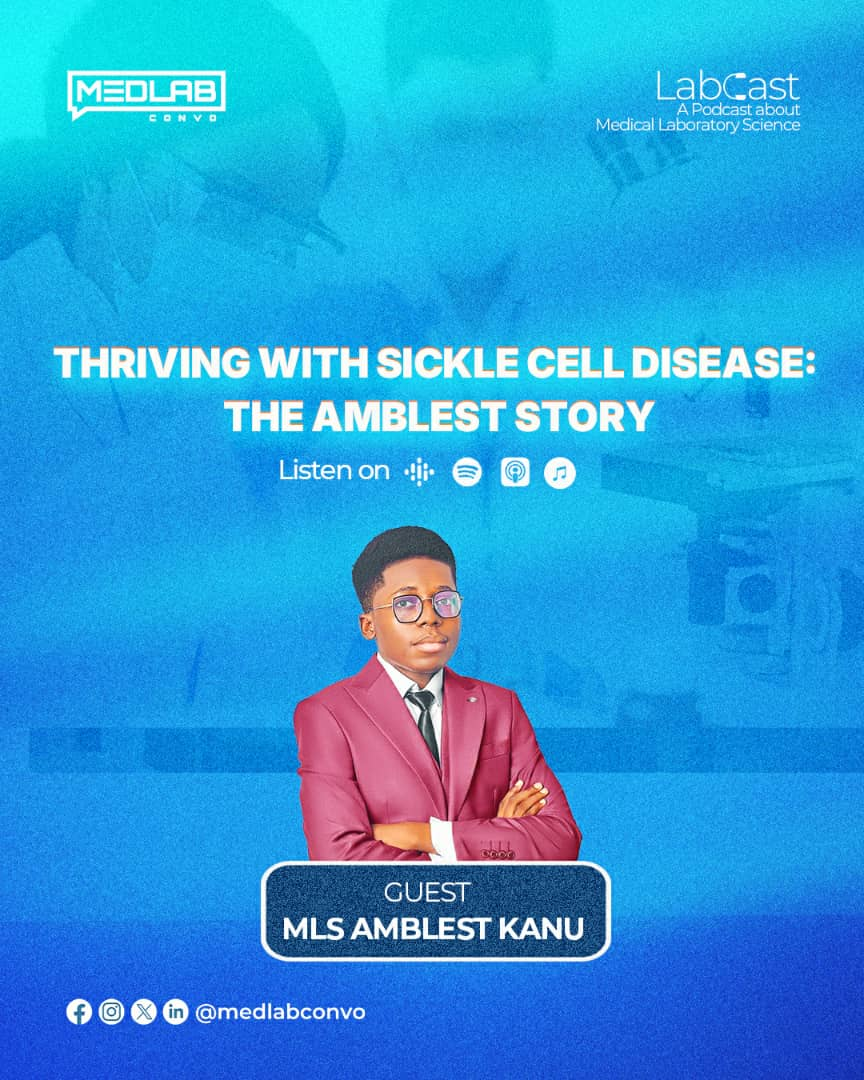
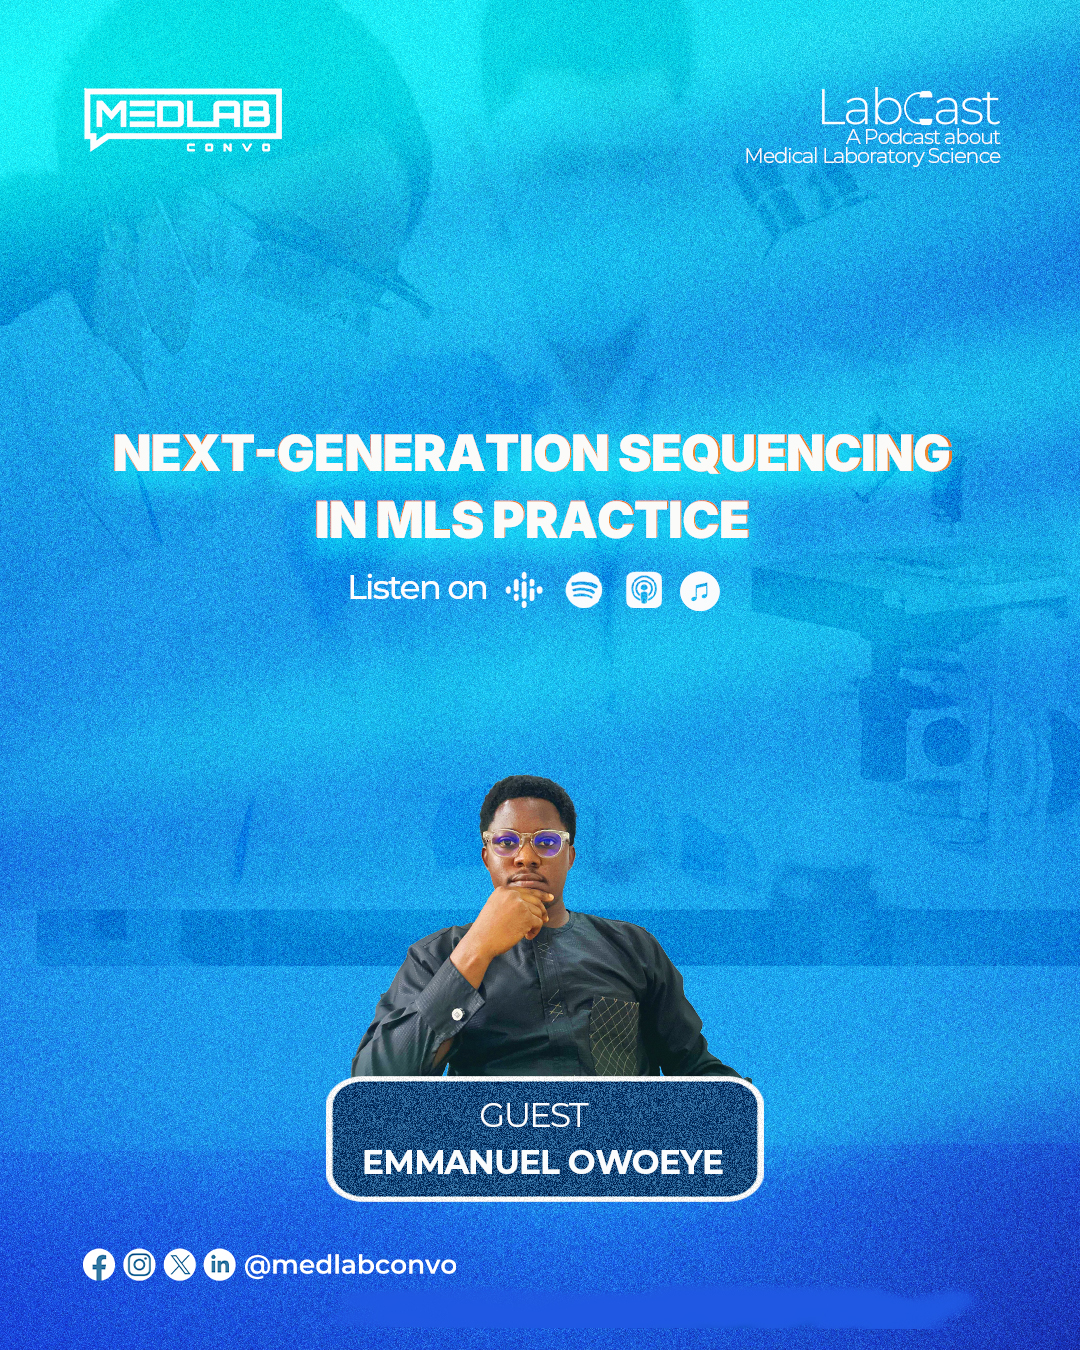
updated labcast

diff --git a/pages/lab-cast/index.vue b/pages/lab-cast/index.vue
@@ -97,13 +97,14 @@
         <div class="lg:flex space-y-6 items-center space-x-4 w-full p-6">
           <img src="@/assets/img/latest-labcast.jpg" alt="Podcast cover" class="w-72 lg:h-60 rounded-lg object-cover" />
           <div class="flex flex-col w-full">
-            <div class="font-semibold text-2xl">Thriving with Sickle Cell Disease: The Amblest Story</div>
+            <div class="font-semibold text-2xl">Next-Generation Sequencing in MLS Practice</div>
             <div class="text-gray-500 mt-2">
-              In this episode of LabCast, we speak with Amblest Kanu, a First-Class graduate who lives with sickle cell disease. Despite health challenges, he earned five perfect GPAs and 74 As in school. Amblest shares how he stayed focused, managed pain, and led others—all while battling a chronic condition. Hosted by Nmesoma and Iheoma, this episode is filled with lessons on resilience, hope, and the power of mindset. Whether you live with sickle cell or know someone who does, this story will inspire you. We also recommend our episode on blood genotype testing for more insights.😊            </div>
+              Next Generation Sequencing (NGS) is revolutionizing the way we understand and diagnose diseases. From detecting rare genetic disorders to guiding personalized treatment plans, NGS is now a vital tool in the hands of modern Medical Laboratory Scientists.
+In this episode of LabCast, your co-hosts Jesutomisin and Daniel are joined by Emmanuel Owoeye, a seasoned molecular biologist, to explore the relationship between NGS and biomedical science, and why every MLS professional should know about it. Whether you’re just hearing about NGS or looking to deepen your understanding, this episode is your guide into the future of lab medicine.</div>
             <div class="mt-3">
               <p class="text-gray-400 text-sm mb-2">Available On:</p>
               <div class="flex flex-wrap gap-2">
-                <a href=" https://open.spotify.com/episode/4Xv5dJD9bG6jufJaHo9uVn"
+                <a href=" https://open.spotify.com/episode/5009NpR5WMrvTE3LyCBmZr"
                   class="inline-flex items-center px-4 py-1.5 rounded-full bg-[#1DB954] text-sm hover:opacity-90">
                   <span class="mr-2">
                     <svg class="w-4 h-4" viewBox="0 0 24 24" fill="currentColor">
@@ -113,7 +114,7 @@
                   </span>
                   Spotify
                 </a>
-                <a href=" https://open.spotify.com/episode/4Xv5dJD9bG6jufJaHo9uVn"
+                <a href="https://open.spotify.com/episode/5009NpR5WMrvTE3LyCBmZr"
                   class="inline-flex items-center border-[0.5px] border-gray-20 px-4 py-1.5 rounded-full bg-white text-black text-sm hover:opacity-90">
                   <span class="mr-2">
                     <svg fill="none" class="w-6 h-6" viewBox="0 0 92 92" xmlns="http://www.w3.org/2000/svg"
@@ -326,7 +327,15 @@ import episode30 from "@/assets/img/lab-coast/lab30.png";
 import episode31 from "@/assets/img/lab-coast/lab31.png";
 
 const podcastList = ref([
-  //  https://open.spotify.com/episode/4Xv5dJD9bG6jufJaHo9uVn
+  {
+    name: "Next-Generation Sequencing in MLS Practice",
+    description:
+      `Next Generation Sequencing (NGS) is revolutionizing the way we understand and diagnose diseases. From detecting rare genetic disorders to guiding personalized treatment plans, NGS is now a vital tool in the hands of modern Medical Laboratory Scientists.
+In this episode of LabCast, your co-hosts Jesutomisin and Daniel are joined by Emmanuel Owoeye, a seasoned molecular biologist, to explore the relationship between NGS and biomedical science, and why every MLS professional should know about it. Whether you’re just hearing about NGS or looking to deepen your understanding, this episode is your guide into the future of lab medicine.`,
+    image: "",
+    link: "https://open.spotify.com/episode/5009NpR5WMrvTE3LyCBmZr",
+    appleUrl: "https://open.spotify.com/episode/5009NpR5WMrvTE3LyCBmZr"
+  },
   {
     name: "Thriving with Sickle Cell Disease: The Amblest Story",
     description:

diff --git a/pages/index.vue b/pages/index.vue
@@ -122,7 +122,7 @@
             <div class="flex flex-wrap gap-2 flex justify-center items-center w-full">
        <div>
         <a
-            href="https://open.spotify.com/episode/4Xv5dJD9bG6jufJaHo9uVn"
+            href="https://open.spotify.com/episode/5009NpR5WMrvTE3LyCBmZr"
             class="inline-flex items-center px-4 py-1.5 rounded-full bg-[#1DB954] text-sm hover:opacity-90"
           >
             <span class="mr-2">
@@ -137,7 +137,7 @@
        </div>
       <div>
         <a
-                href="https://open.spotify.com/episode/4Xv5dJD9bG6jufJaHo9uVn"
+                href="https://open.spotify.com/episode/5009NpR5WMrvTE3LyCBmZr"
                 class="inline-flex items-center border-[0.5px] border-gray-20 px-4 py-1.5 rounded-full bg-white text-black text-sm hover:opacity-90"
               >
                 <span class="mr-2">
@@ -508,9 +508,10 @@ const activitiesGrid = ref([
 
 const labcastLatest = ref([
 {
-    title: 'Thriving with Sickle Cell Disease: The Amblest Story',
+    title: 'Next-Generation Sequencing in MLS Practice',
     image: labcast,
-    desc: `In this episode of LabCast, we speak with Amblest Kanu, a First-Class graduate who lives with sickle cell disease. Despite health challenges, he earned five perfect GPAs and 74 As in school. Amblest shares how he stayed focused, managed pain, and led others—all while battling a chronic condition. Hosted by Nmesoma and Iheoma, this episode is filled with lessons on resilience, hope, and the power of mindset. Whether you live with sickle cell or know someone who does, this story will inspire you. We also recommend our episode on blood genotype testing for more insights.😊`,
+    desc: `Next Generation Sequencing (NGS) is revolutionizing the way we understand and diagnose diseases. From detecting rare genetic disorders to guiding personalized treatment plans, NGS is now a vital tool in the hands of modern Medical Laboratory Scientists.
+In this episode of LabCast, your co-hosts Jesutomisin and Daniel are joined by Emmanuel Owoeye, a seasoned molecular biologist, to explore the relationship between NGS and biomedical science, and why every MLS professional should know about it. Whether you’re just hearing about NGS or looking to deepen your understanding, this episode is your guide into the future of lab medicine.`,
     previousEditionUrl: '#',
     status: 'latest',
     registerUrl: ''

diff --git a/pages/programs/[id].vue b/pages/programs/[id].vue
@@ -605,7 +605,6 @@ function closeModal() {
 <!-- Background elements -->
 <div class="absolute bottom-0 left-3/4 top-0 hidden w-screen bg-[#27628C] lg:block"></div>
       
-      <!-- Animated DNA helix decoration -->
       <div class="absolute top-10 right-10 opacity-20 animate-pulse hidden lg:block">
         <DnaHelix />
       </div>
@@ -659,10 +658,6 @@ function closeModal() {
                 width="1184" 
                 height="1376"
               >
-              <!-- Microscope decoration overlay -->
-              <div class="absolute -bottom-10 -right-10 opacity-20 rotate-12 transform scale-75">
-                <MicroscopeIcon />
-              </div>
             </figure>
           </div>
         </div>
